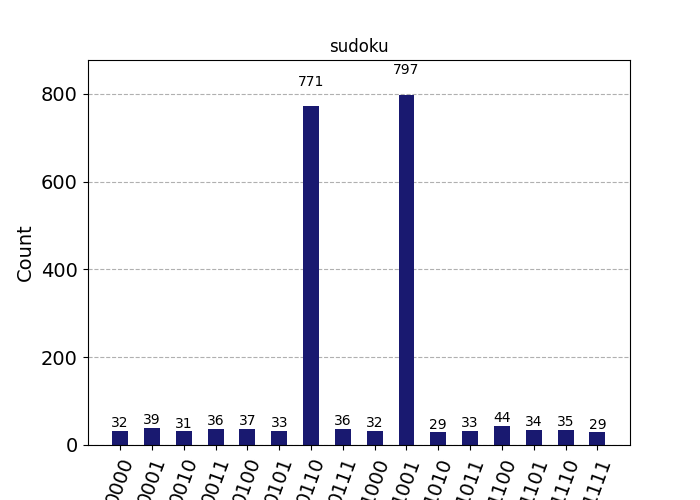
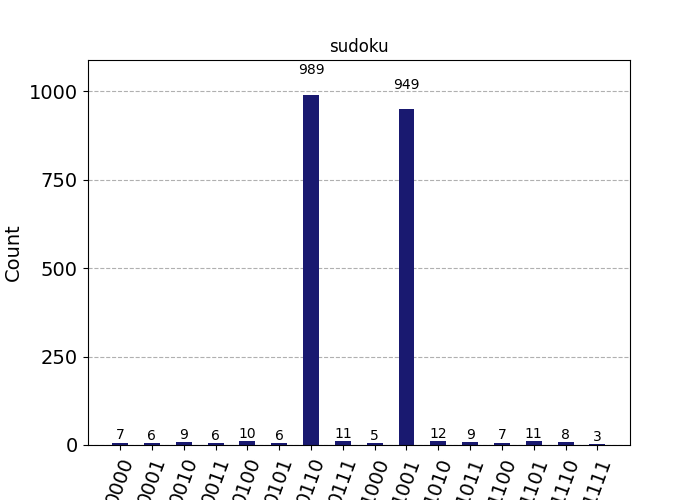
IonQ

diff --git a/sudoku.py b/sudoku.py
@@ -48,7 +48,6 @@ output_qubit = QuantumRegister(1, name='out')
 cbits = ClassicalRegister(4, name='cbits')
 qc = QuantumCircuit(var_qubits, clause_qubits, output_qubit, cbits)
 
-
 qc.initialize([1, -1]/np.sqrt(2), output_qubit)
 qc.h(var_qubits)
 qc.barrier()
@@ -57,7 +56,9 @@ sudoku_oracle(qc, clause_list, var_qubits, clause_qubits, cbits)
 qc.barrier()
 qc.append(diffuser(4), [0,1,2,3])
 
-
+sudoku_oracle(qc, clause_list, var_qubits, clause_qubits, cbits)
+qc.barrier()
+qc.append(diffuser(4), [0,1,2,3])
 
 qc.measure(var_qubits, cbits)
 qc.draw(output="mpl")
